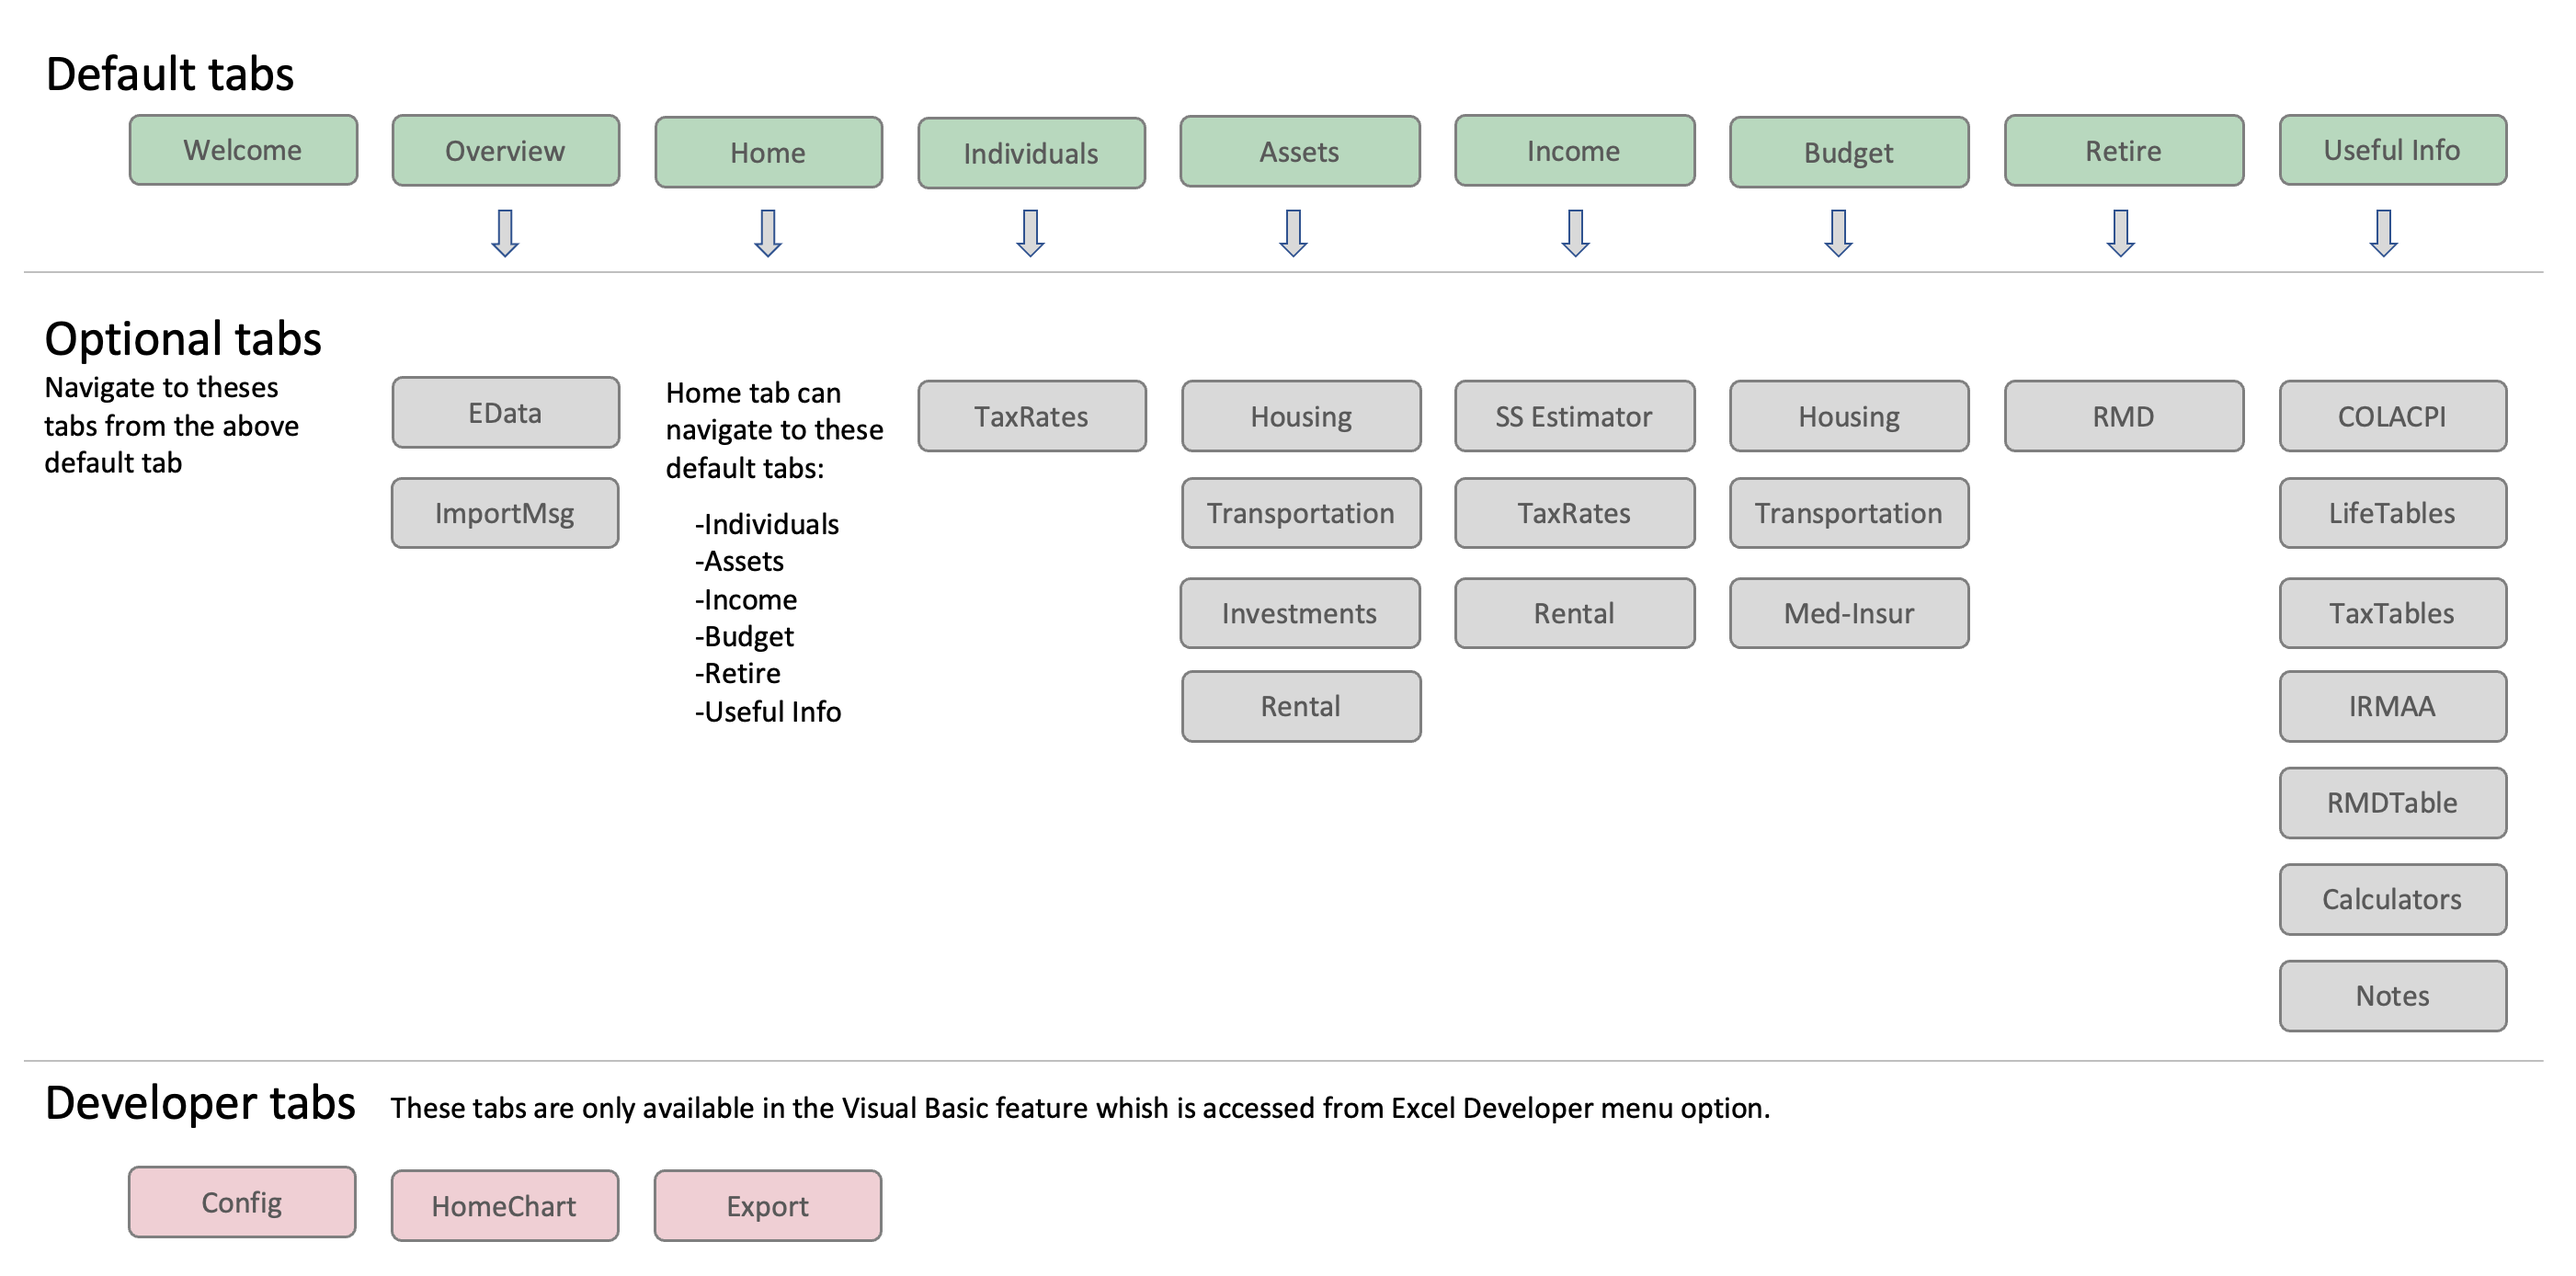
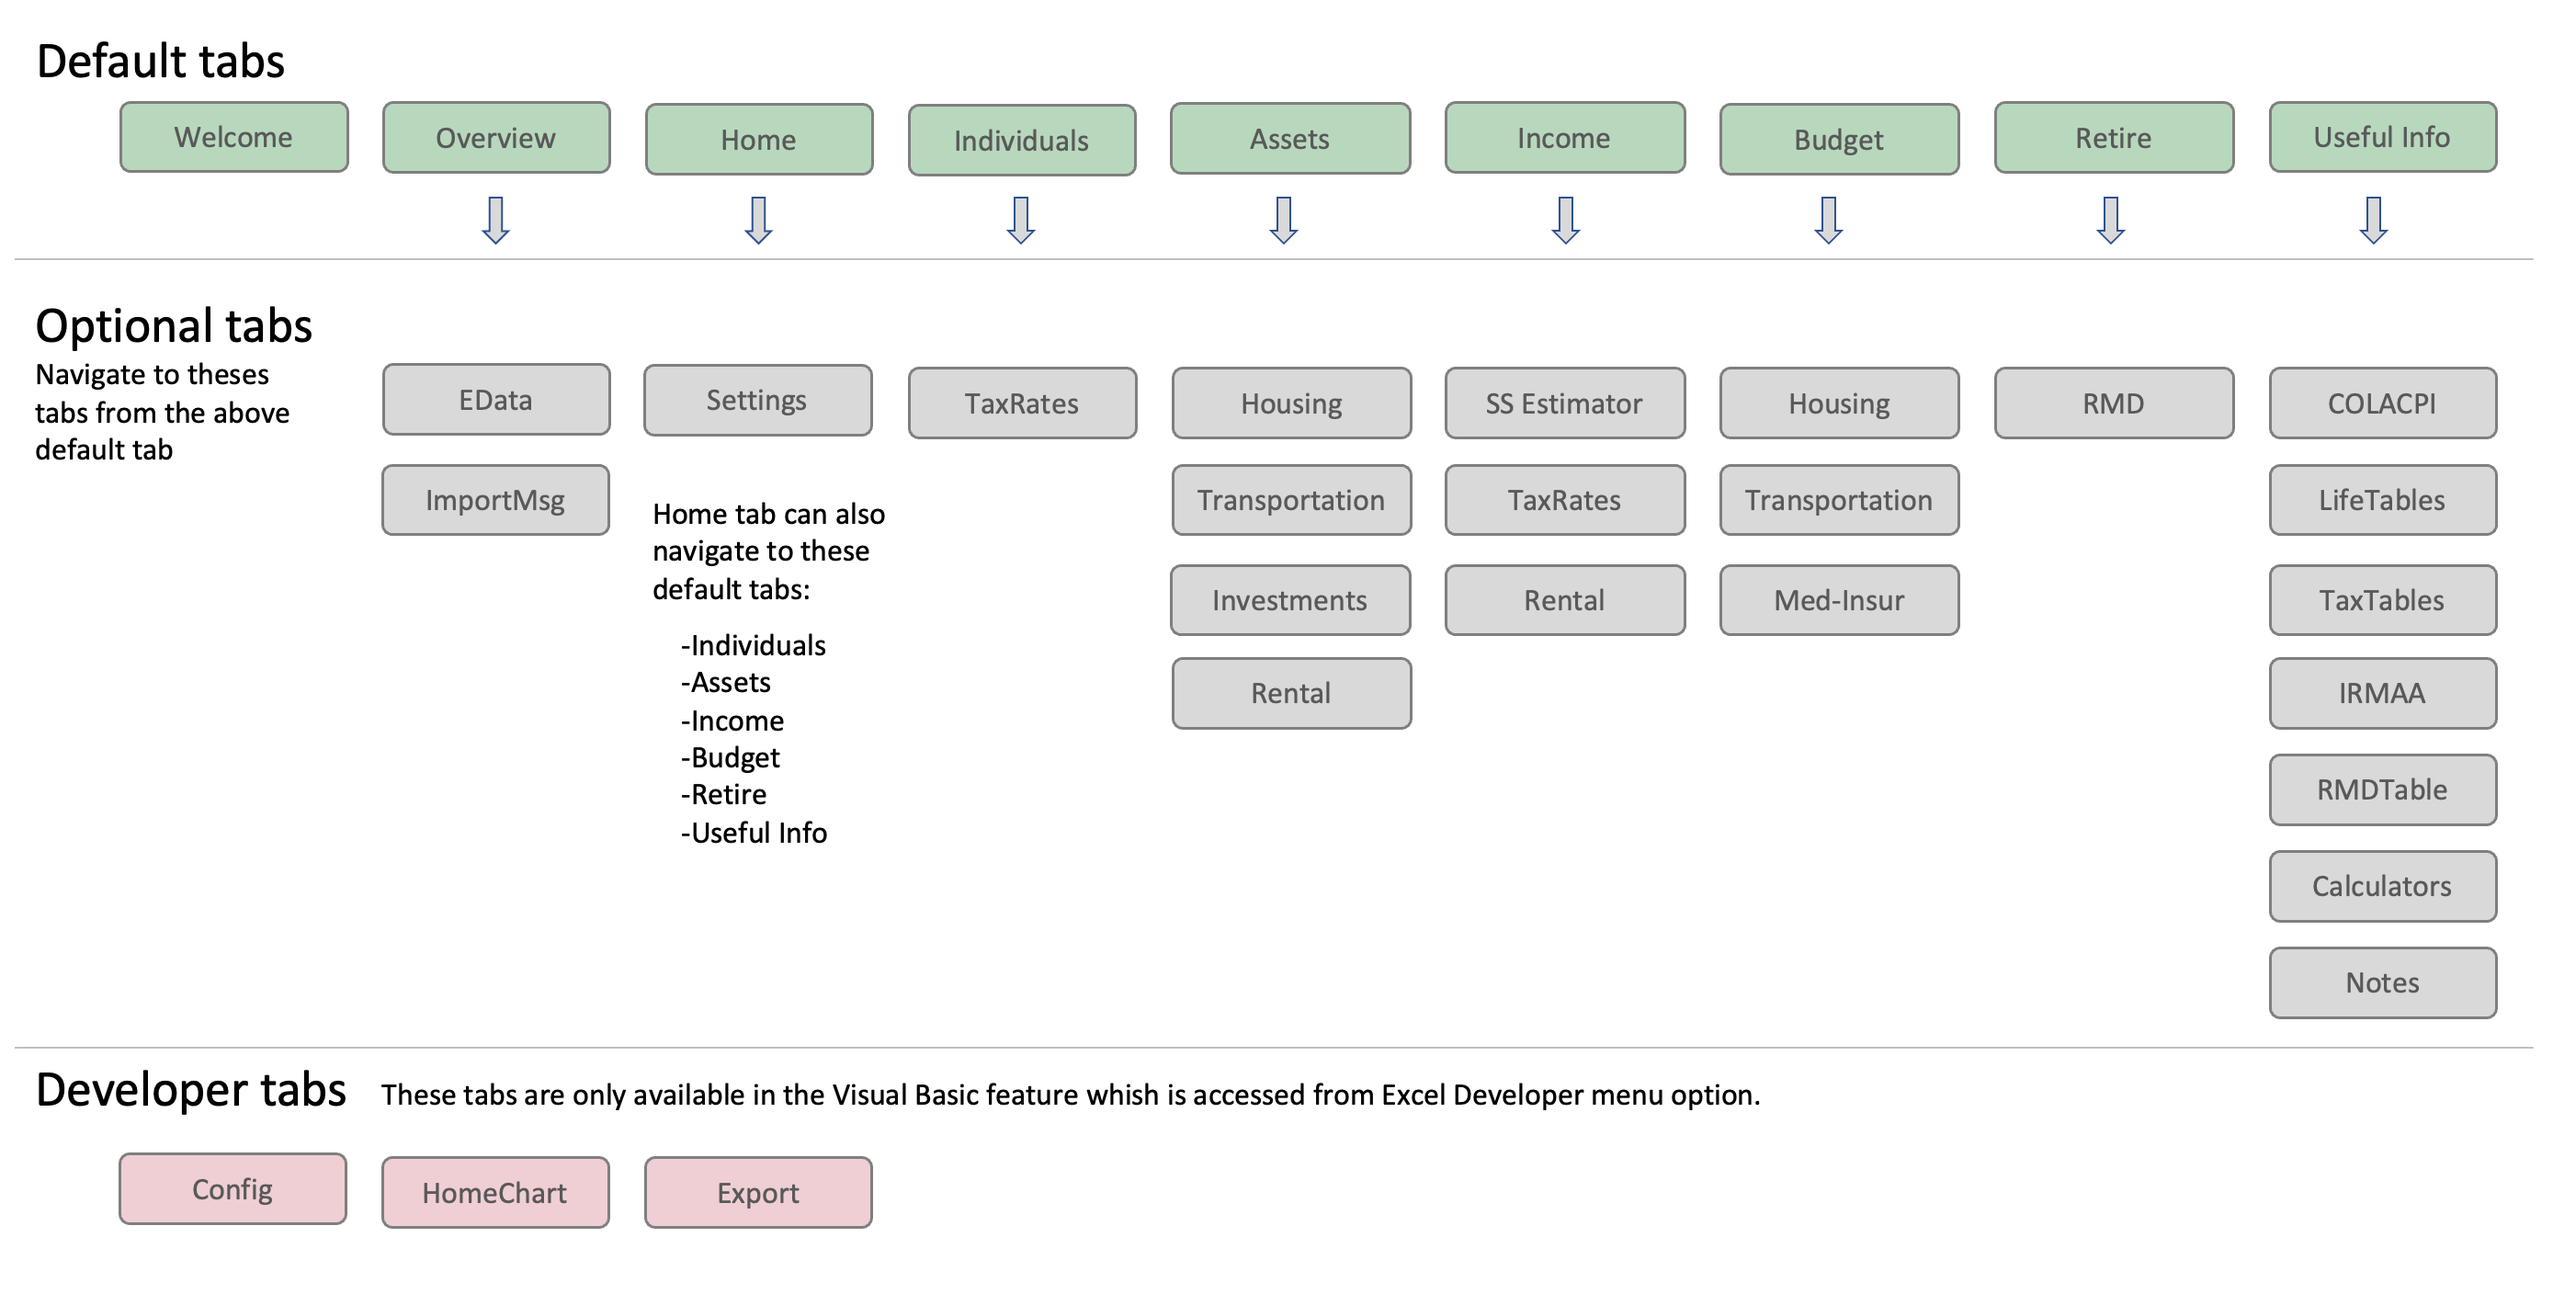
Update FAQ & Working to docs

diff --git a/ui/index.html b/ui/index.html
@@ -357,6 +357,7 @@
 <li><a href="#rmd">RMD</a></li>
 <li><a href="#rmd-table">RMD Table</a></li>
 <li><a href="#rental">Rental</a></li>
+<li><a href="#settings">Settings</a></li>
 <li><a href="#ss-estimator">SS Estimator</a></li>
 <li><a href="#taxrates">TaxRates</a></li>
 <li><a href="#taxtables">TaxTables</a></li>
@@ -630,10 +631,10 @@ The second rental property has reported income but the value for the property is
 <hr style="border-top: 1px solid green">
 
 <h3 id="retire">Retire</h3>
-<p>View the created the retirement plan spanning forty years.  The plan is provides multiple amounts of data.  All views provide individual(s) information and the Investment Balance in the left portion of the tab. Varying amounts of data are shown with the other views. Toggle the eyeball icon and/or green gears icon to view or hide data detail information.  Scroll up and down and left and right is necessary to view the additional detail information.  </p>
+<p>View the created the retirement plan spanning forty years.  The plan is provides multiple amounts of data.  All views provide individual(s) information and the Investment Balance in the left portion of the tab. Varying amounts of data are shown with the other views. Toggle the the two eyeball icons on the left-hand side to view or hide data detail information.  Scroll up and down and left and right is necessary to view the additional detail information.  </p>
 <p>The column Annual withdrawal from Investments is a calculated withdrawal amount is either the amount needed to meet budget requirements or that amount plus any additional amount to meet the IRS Required Minimum Deduction (RMD). </p>
 <p>The column titled RMD Event is used to indicate if RMD supplemental withdrawal has occurred.  Click the eyeball icon in the column title to view detail information for the event.</p>
-<p>Pressing the green gear icon will toggle the viewing of significant amounts of data. Scroll right to view the data.  The data is grouped by colored headings.  These groupings are a) Budget Related, Housing Related, Combined After/Before, After Tax, Befor Tax, and Validation Checking.  The After Tax grouping is where any amounts reinvested from RMD calculations is shown.  Column titles in each section identify the column values.</p>
+<p>Pressing the lower eyeball on the left-hand side fo the screen will toggle the viewing of significant amounts of data. Scroll right to view the data.  The data is grouped by colored headings.  These groupings are a) Budget Related, Housing Related, Combined After/Before, After Tax, Befor Tax, and Validation Checking.  The After Tax grouping is where any amounts reinvested from RMD calculations is shown.  Column titles in each section identify the column values.</p>
 <p>Three entry fields for each year of the plan may be utilized.  These fields are:</p>
 <table>
 <thead>
@@ -777,7 +778,20 @@ calculator will be displayed.</p>
 
 <h3 id="rental">Rental</h3>
 <p>If you own rental property this tab is used to enter related information.  The information is used to calculate rental income and appreciation of rental property.  The 'Combined yearly Total' amount is transferred to the Rental section of the Income tab. Rental property is included in the calculation of total assets.</p>
-<p>This tab is accessed by pressing the Pencil icon in the upper left portion of the Income tab.  The icon is labeled <strong>Estimate Social Security</strong>.</p>
+<p>This tab is accessed by pressing the Pencil icon in the upper left portion of the Income tab or the Rental section of the Assets tab.  </p>
+<hr style="border-top: 1px solid green">
+
+<h3 id="settings">Settings</h3>
+<p>This tab provides the following:</p>
+<ul>
+<li>
+<p>Modify the default tab password that is used to protect the tabs.</p>
+</li>
+<li>
+<p>Upgrade the software using the Import and Export features. </p>
+</li>
+</ul>
+<p>This tab is accessed by pressing the green gears in the upper right-hand corner of the Home tab.</p>
 <hr style="border-top: 1px solid green">
 
 <h3 id="ss-estimator">SS Estimator</h3>
@@ -839,7 +853,7 @@ calculator will be displayed.</p>
 <tr>
 <td><img alt="Green Gears" src="../images/iconGears.png" width="30" /></td>
 <td align="left">Green gears</td>
-<td align="left">Toggle view/hide the detailed retirement plan information.</td>
+<td align="left">Toggle the Settings tab.</td>
 </tr>
 <tr>
 <td><img alt="Green Calculator" src="../images/iconGreenCalculator.png" width="30" /></td>

diff --git a/overview/index.html b/overview/index.html
@@ -320,12 +320,12 @@
 <p>This message box will be shown when attempting to execute a feature and macros have been disabled.  </p>
 <p><br></p>
 <h2 id="protected-startup">Protected startup</h2>
-<p>Each time the software is started, with macros enabled, a macro is executed that protects all tabs with a default password. If macros are not enabled no protection of tabs is performed and the default tab will be the last used tab when the software was closed. </p>
-<div class="admonition note">
-<p class="admonition-title">Note</p>
-<p>Default password is: <strong>retire</strong> (all lowercase letters)</p>
+<p>Each time the software is started, with macros enabled, a macro is executed that protects all tabs with a default password. If macros are not enabled no protection of tabs is performed and the default tab will be the last used tab when the software was closed. At any time, any sheet/tab can be unprotected thus allowing changes to protected areas or features of the tab.  If the tab is then re-protected and a different password is used that new password will be reset to the default password when the software is closed and started.  </p>
+<div class="admonition important">
+<p class="admonition-title">Default password for all sheets/tabs</p>
+<p>Password: <strong>retire</strong> (all lowercase letters)</p>
 </div>
-<p>At any time, any tab can be unprotected thus allowing changes to protected areas or features of the tab.  If the tab is then re-protected and a different password is used that new password will be reset to the default password when the software is closed and started.  This reset of passwords feature is to prevent forgetting a newly used password and guarentee protection of tabs.</p>
+<p>The feature to reset the password at startup is designed to prevent forgetting a newly used password and guarentee protection of tabs.</p>
 <h2 id="first-screen">First screen</h2>
 <p><img align="left" alt="ImportMsg" src="../images/allStartupFirstScreen.png" width="500" /></p>
 <p>After responding to the above macro warning prompt, and enabling macros, the first screen that is shown is the Home tab.  An informational message box is shown at startup.  This message informs the user that the green calculator icon on this tab and the Retire tab must be pressed when prompted.  The prompt will be a message with red background indicating the green calculator icon should be pressed. The OK button shown in the message box must be pressed to continue and begin using use this software. </p>
@@ -342,7 +342,7 @@
 <p><img alt="ImportMsg" src="../images/overviewScenarios.png" width="600" /></p>
 <p>When done exploring a scenario, if desired, another scenario can be loaded and reviewed.  It is important to understand that when loading a scenario all existing data will be over-written.</p>
 <hr />
-<h3 id="data-import">Data import</h3>
+<h3 id="-data-import-">- Data import -</h3>
 <p><img align="left" alt="ImportMsg" src="../images/overviewScenarioImport.png" width="175" /></p>
 <p>Pressing any of the scenario buttons will start the data import feature of this software.  A message prompt to confirm the import of the scenario is shown.  Press the Yes or No button to respond as appropriate.  </p>
 <p><br><br></p>

diff --git a/index.html b/index.html
@@ -310,6 +310,7 @@
 <p>Planning for retirement shouldn't be dreaded and avoided.  </p>
 <p>The most often asked question regarding retirement is <strong>"will the money last"</strong>.  Retirement Planner software helps to answer that and other questions. Whether you are early or late in the planning process it needs to be done. The statement "failing to plan is planning to fail" is just as applicable to retirement as it is to other aspects of life. This software can be used to create a forty year retirement plan.  </p>
 <p>Many events and aspects of life will impact the quality of retirement.  What the future holds for one in retirement is unknown.  Yet, one can be prepared and educated about the challenges and opportunities of retirement.  A knowledgeable and sound retirement plan will definitely help now and in the future. </p>
+<p>Though this software is titled Retirement Planner is can and has been used to assit with making financial descions for decades before retirement. Whether </p>
 <p align="center">
   <img src="/images/questionsWithTitles.png?raw=true" width="400">
 </p>
@@ -318,7 +319,7 @@
 <hr style="border:1px solid green">
 
 <h3 id="what-retirement-planner-does-not-provide">What Retirement Planner does not provide</h3>
-<p>Retirement Planner does not provide any investment strategies or track historical performance of investments.       </p>
+<p>Retirement Planner does not provide any investment strategies or track historical performance of investments.  This software is not designed to replace the value of professional financial advise.         </p>
 <hr style="border:1px solid green">
 
 <p><br></p>
